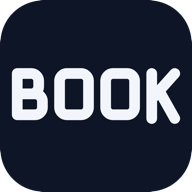
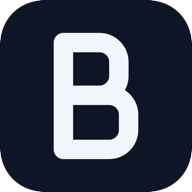
Update book appicon

Changed region(s): [[0.0312, 0.1562, 0.9375, 0.8438]]

diff --git a/brand/gen-appicon.js b/brand/gen-appicon.js
@@ -1,4 +1,4 @@
-/* Jaranow - books app icon. Ink tile, "BOOK" in Paper; the one place a monogram
+/* Jaranow - books app icon. Ink tile, a "B" in Paper; the one place a monogram
    replaces the drop (CLAUDE.md "Book app icon", BRAND-STANDARD 2.4). Same tile as
    src/book/components/BookMark.tsx - change both.
    Authored in vw/vh and rendered once at RENDER_PX then resampled: headless Chrome
@@ -14,52 +14,30 @@ const path = require("path");
 const INK = "#0E1526";
 const PAPER = "#F2F5FB";
 
-/* Copied from gen-marks.js's G table (can't import it - it writes files on load).
-   SW thickens the stroke around the same centre lines (14 reads thin on a home
-   screen). Keep SW <= 20: past ~22 the B's upper counter closes at 40px. */
-const SW = 20;
+/* B copied from gen-marks.js's G table (can't import it - it writes files on load).
+   One letter is set large, so it keeps the face's own 14 stroke. */
+const SW = 14;
 const H = SW / 2;
-const CLEAR = 12;              // clear space between letters, ink to ink
-const GAP = CLEAR - 14 + SW;   // advance gap that keeps CLEAR at this stroke
-const GLYPHS = {
-  B: { w: 61, d: "M7 93 V16 H33 A14 14 0 0 1 47 30 V40 A14 14 0 0 1 33 54 H7 M7 54 H40 A14 14 0 0 1 54 68 V79 A14 14 0 0 1 40 93 H7" },
-  O: { w: 68, d: "M7 30 A14 14 0 0 1 21 16 H47 A14 14 0 0 1 61 30 V79 A14 14 0 0 1 47 93 H21 A14 14 0 0 1 7 79 Z" },
-  K: { w: 57, d: "M7 16 V100 M50 16 L7 64 M21 48.4 L50 100" }
-};
-const WORD = "BOOK";
-let pen = 0, right = 0;
-const WORD_D = [...WORD].map(ch => {
-  const g = GLYPHS[ch];
-  const d = g.d.replace(/([MLHVA])([^MLHVAZ]*)/g, (m, cmd, args) => {
-    const n = args.trim().split(/[\s,]+/).filter(Boolean).map(Number);
-    if (cmd === "H") return `H${n[0] + pen}`;
-    if (cmd === "V") return m;
-    if (cmd === "A") return `A${n.slice(0, 5).join(" ")} ${n[5] + pen} ${n[6]}`;
-    return `${cmd}${n[0] + pen} ${n[1]}`;
-  });
-  right = pen + g.w - 7 + H;   // this glyph's right ink edge at stroke SW
-  pen += g.w + GAP;
-  return d;
-}).join(" ");
-const WORD_BOX = { x0: 7 - H, x1: right, y0: 16 - H, y1: 100 + H };
-WORD_BOX.w = WORD_BOX.x1 - WORD_BOX.x0;
-WORD_BOX.cx = (WORD_BOX.x0 + WORD_BOX.x1) / 2;
-WORD_BOX.cy = (WORD_BOX.y0 + WORD_BOX.y1) / 2;
+const B = "M7 93 V16 H33 A14 14 0 0 1 47 30 V40 A14 14 0 0 1 33 54 H7 M7 54 H40 A14 14 0 0 1 54 68 V79 A14 14 0 0 1 40 93 H7";
+const BOX = { x0: 7 - H, x1: 54 + H, y0: 16 - H, y1: 93 + H };
+BOX.h = BOX.y1 - BOX.y0;
+BOX.cx = (BOX.x0 + BOX.x1) / 2;
+BOX.cy = (BOX.y0 + BOX.y1) / 2;
 
 /* Not interchangeable (BRAND-STANDARD §7): maskable is square because Android
-   applies its own mask. `type` = word width as % of tile; maskable 72 puts the
-   word's corners at radius ~38 of the 40 safe circle - the ceiling, don't raise. */
+   applies its own mask. `type` = letter height as % of tile; maskable 58 puts the
+   B's corners at radius ~35 of the 40 safe circle. */
 const VARIANTS = {
-  any: { radius: 22.37, type: 88 },
-  maskable: { radius: 0, type: 72 }
+  any: { radius: 22.37, type: 66 },
+  maskable: { radius: 0, type: 58 }
 };
 
 // 180 is the iOS apple-touch-icon: never masked, so it takes the rounded build.
 const SIZES = { any: [192, 512, 180], maskable: [192, 512] };
 
 const page = (v) => {
-  const k = v.type / WORD_BOX.w;
-  const tx = (50 - WORD_BOX.cx * k).toFixed(3), ty = (50 - WORD_BOX.cy * k).toFixed(3);
+  const k = v.type / BOX.h;
+  const tx = (50 - BOX.cx * k).toFixed(3), ty = (50 - BOX.cy * k).toFixed(3);
   return `<!doctype html>
 <html lang="en">
 <head>
@@ -72,7 +50,7 @@ const page = (v) => {
 <body><svg viewBox="0 0 100 100" xmlns="http://www.w3.org/2000/svg">
   <rect width="100" height="100" rx="${v.radius}" fill="${INK}"/>
   <g transform="translate(${tx} ${ty}) scale(${k.toFixed(5)})">
-    <path d="${WORD_D}" fill="none" stroke="${PAPER}" stroke-width="${SW}" stroke-linecap="round" stroke-linejoin="round"/>
+    <path d="${B}" fill="none" stroke="${PAPER}" stroke-width="${SW}" stroke-linecap="round" stroke-linejoin="round"/>
   </g>
 </svg></body>
 </html>

diff --git a/src/book/components/BookMark.tsx b/src/book/components/BookMark.tsx
@@ -1,18 +1,15 @@
 // Same geometry as brand/gen-appicon.js — change both together (see CLAUDE.md "Book app icon").
-const SW = 20;
-const WORD = 'M7 93V16 H33A14 14 0 0 1 47 30V40 A14 14 0 0 1 33 54H7M7 54H40A14 14 0 0 1 54 68V79 A14 14 0 0 1 40 93H7 '
-    + 'M86 30A14 14 0 0 1 100 16H126A14 14 0 0 1 140 30V79 A14 14 0 0 1 126 93H100A14 14 0 0 1 86 79Z '
-    + 'M172 30A14 14 0 0 1 186 16H212A14 14 0 0 1 226 30V79 A14 14 0 0 1 212 93H186A14 14 0 0 1 172 79Z '
-    + 'M258 16V100 M301 16L258 64M272 48.4L301 100';
-const BOX = {w: 314, cx: 154, cy: 58}; // ink bounds at SW: x -3..311, y 6..110
-const TYPE = 88; // the word's width as a share of the tile, as the launcher icon's `any` build
-const K = TYPE / BOX.w;
+const SW = 14;
+const B = 'M7 93V16H33A14 14 0 0 1 47 30V40A14 14 0 0 1 33 54H7M7 54H40A14 14 0 0 1 54 68V79A14 14 0 0 1 40 93H7';
+const BOX = {h: 91, cx: 30.5, cy: 54.5}; // ink bounds at SW: x 0..61, y 9..100
+const TYPE = 66; // the letter's height as a share of the tile, as the launcher icon's `any` build
+const K = TYPE / BOX.h;
 
 export function BookMark({className = 'h-10 w-10'}: { className?: string }) {
     return <svg viewBox="0 0 100 100" role="img" aria-label="Jaranow books" className={`shrink-0 ${className}`}>
         <rect width="100" height="100" rx="22.37" fill="#0E1526"/>
         <g transform={`translate(${50 - BOX.cx * K} ${50 - BOX.cy * K}) scale(${K})`}>
-            <path d={WORD} fill="none" stroke="#F2F5FB" strokeWidth={SW} strokeLinecap="round" strokeLinejoin="round"/>
+            <path d={B} fill="none" stroke="#F2F5FB" strokeWidth={SW} strokeLinecap="round" strokeLinejoin="round"/>
         </g>
     </svg>;
 }

diff --git a/CLAUDE.md b/CLAUDE.md
@@ -767,17 +767,15 @@ to the block width and re-justifies if the address changes; a string too long
 stops the generator rather than setting a cramped line. Only the carwash has one,
 because only the carwash is a place you drive to. See §3.1.
 
-**Book app icon.** The **one** asset using a monogram (the word `BOOK`) instead of the drop,
+**Book app icon.** The **one** asset using a monogram (a capital `B`) instead of the drop,
 and only because the books app is an internal tool sharing a home screen with the
 Jaranow app — the launcher icon matches the tile in its own sidebar. Anything
-public keeps the symbol (§2.4). Treatment "Ink desk": Ink tile, the word `BOOK`
-in Paper drawn on the wordmark's construction (not typed), no full stop, at 88%
-of the tile's width (72% on the maskable build — its safe-circle ceiling). The
-icon sets the letters at a 20-unit stroke, heavier than the face's 14, around
-the same centre lines; `gen-appicon.js` widens the spacing to match (keep
-`SW` ≤ 20 or the B's upper counter closes). Ink so it can't be
-mistaken for the blue Jaranow drop on a home screen. Capital `B`, `O`, `K` were
-drawn into `gen-marks.js`'s glyph table for it — the face's only capitals. The sidebar tile is
+public keeps the symbol (§2.4). Treatment "Ink desk": Ink tile, a `B` in Paper
+drawn on the wordmark's construction (not typed) at the face's own 14 stroke,
+sized by **height** - 66% of the tile (58% on the maskable build, corners inside
+the 80% safe circle). It replaced the word `BOOK`. Ink so it can't be mistaken for the blue Jaranow drop on
+a home screen. Capital `B`, `O`, `K` were drawn into `gen-marks.js`'s glyph table
+for the old word; only `B` is used now. The sidebar tile is
 `src/book/components/BookMark.tsx`, same geometry as `gen-appicon.js`; change
 both together. Do not reach for the monogram elsewhere, and do
 not point the site manifests at `public/book/`. The installed name is "Book"
@@ -786,7 +784,7 @@ for `/__/book` in `routes.json` (iOS reads the page title), and the
 `document.title` in `Bookkeeping.tsx`.
 
 Two builds, not interchangeable (§7.2): `any` carries the 22.37% radius,
-`maskable` is square-cornered with the word inside the 80% safe circle. Both are
+`maskable` is square-cornered with the letter inside the 80% safe circle. Both are
 authored in `vw`/`vh`, rendered **once at 1024px** and resampled with `sips`.
 `sync-appicon.sh` holds the generated-name → served-path mapping; keep it in step
 with the `icons` array in `public/bookkeeping-manifest.json` and `appleTouchIcon`

diff --git a/brand/BRAND-STANDARD.md b/brand/BRAND-STANDARD.md
@@ -72,7 +72,7 @@ blob at small sizes. Never fill it in.
 
 ### 2.4 Monogram
 
-A `J` in the wordmark's letterforms, for **internal tools only** — the back-office
+A capital `B` in the wordmark's letterforms, for **internal tools only** — the back-office
 app whose launcher icon has to match its own interface. Not part of the public
 identity.
 
